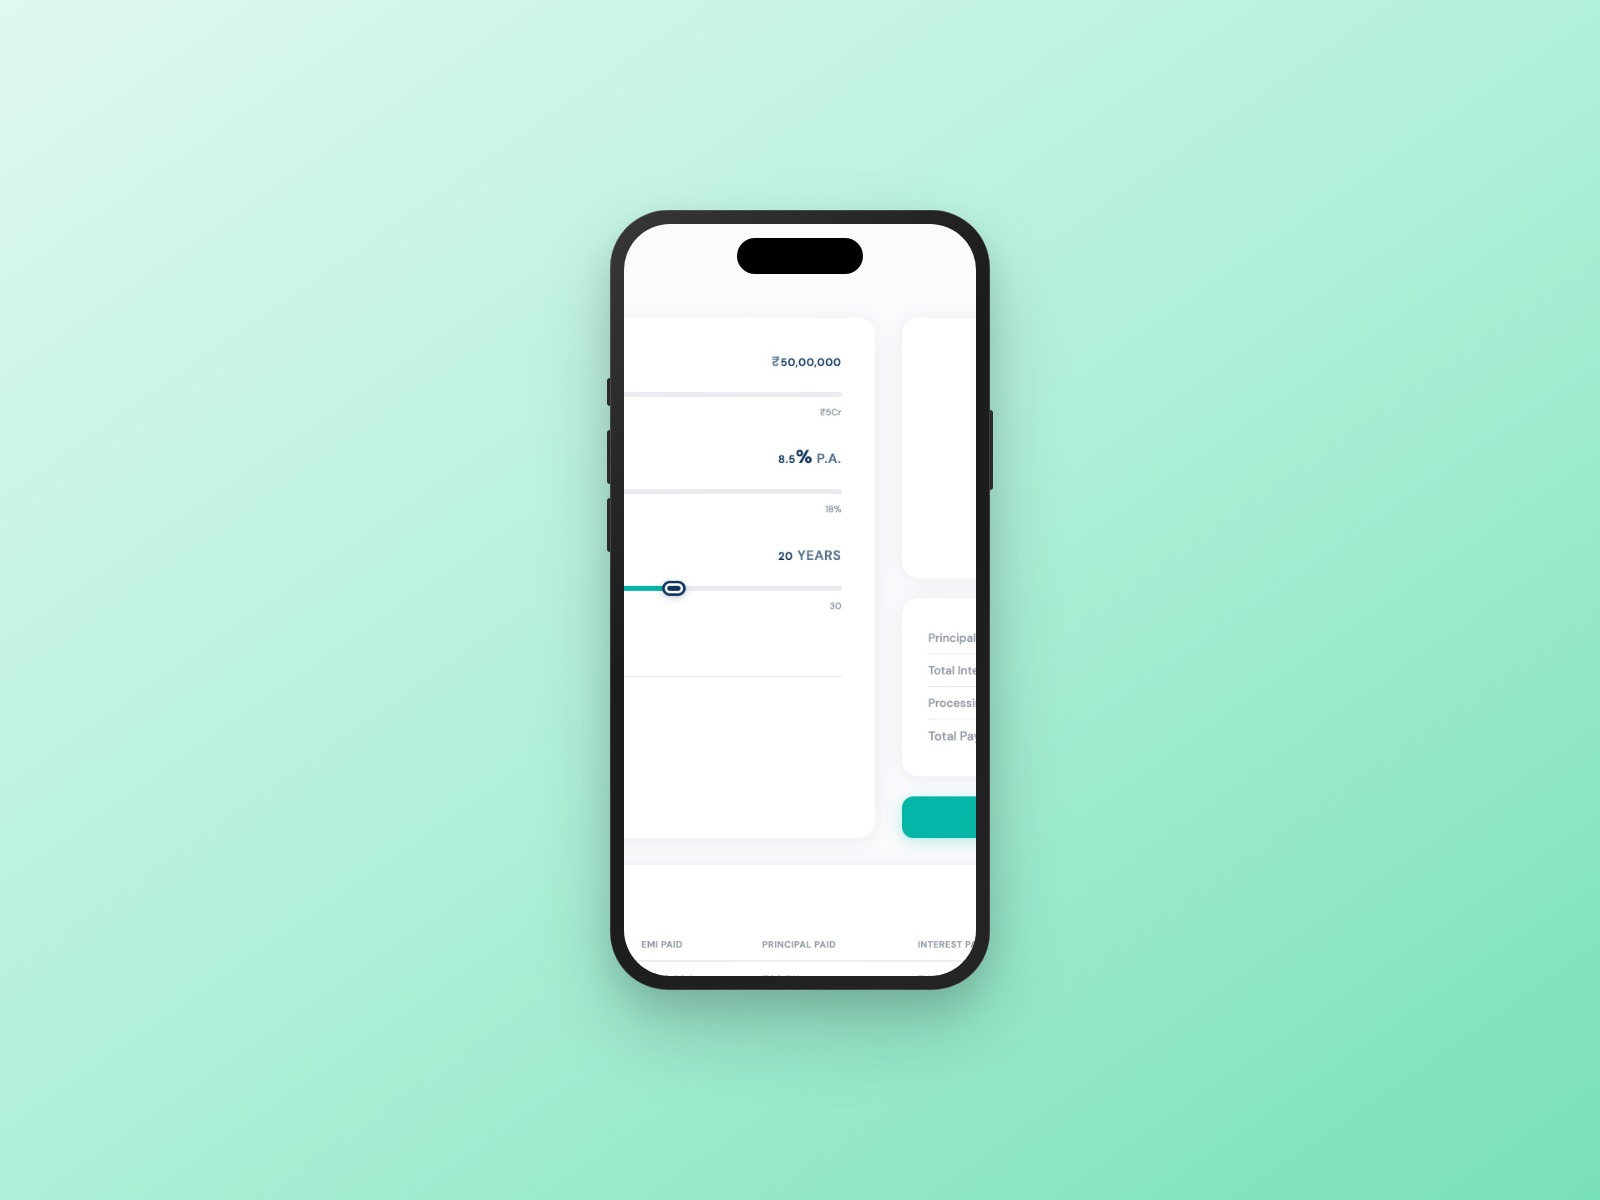
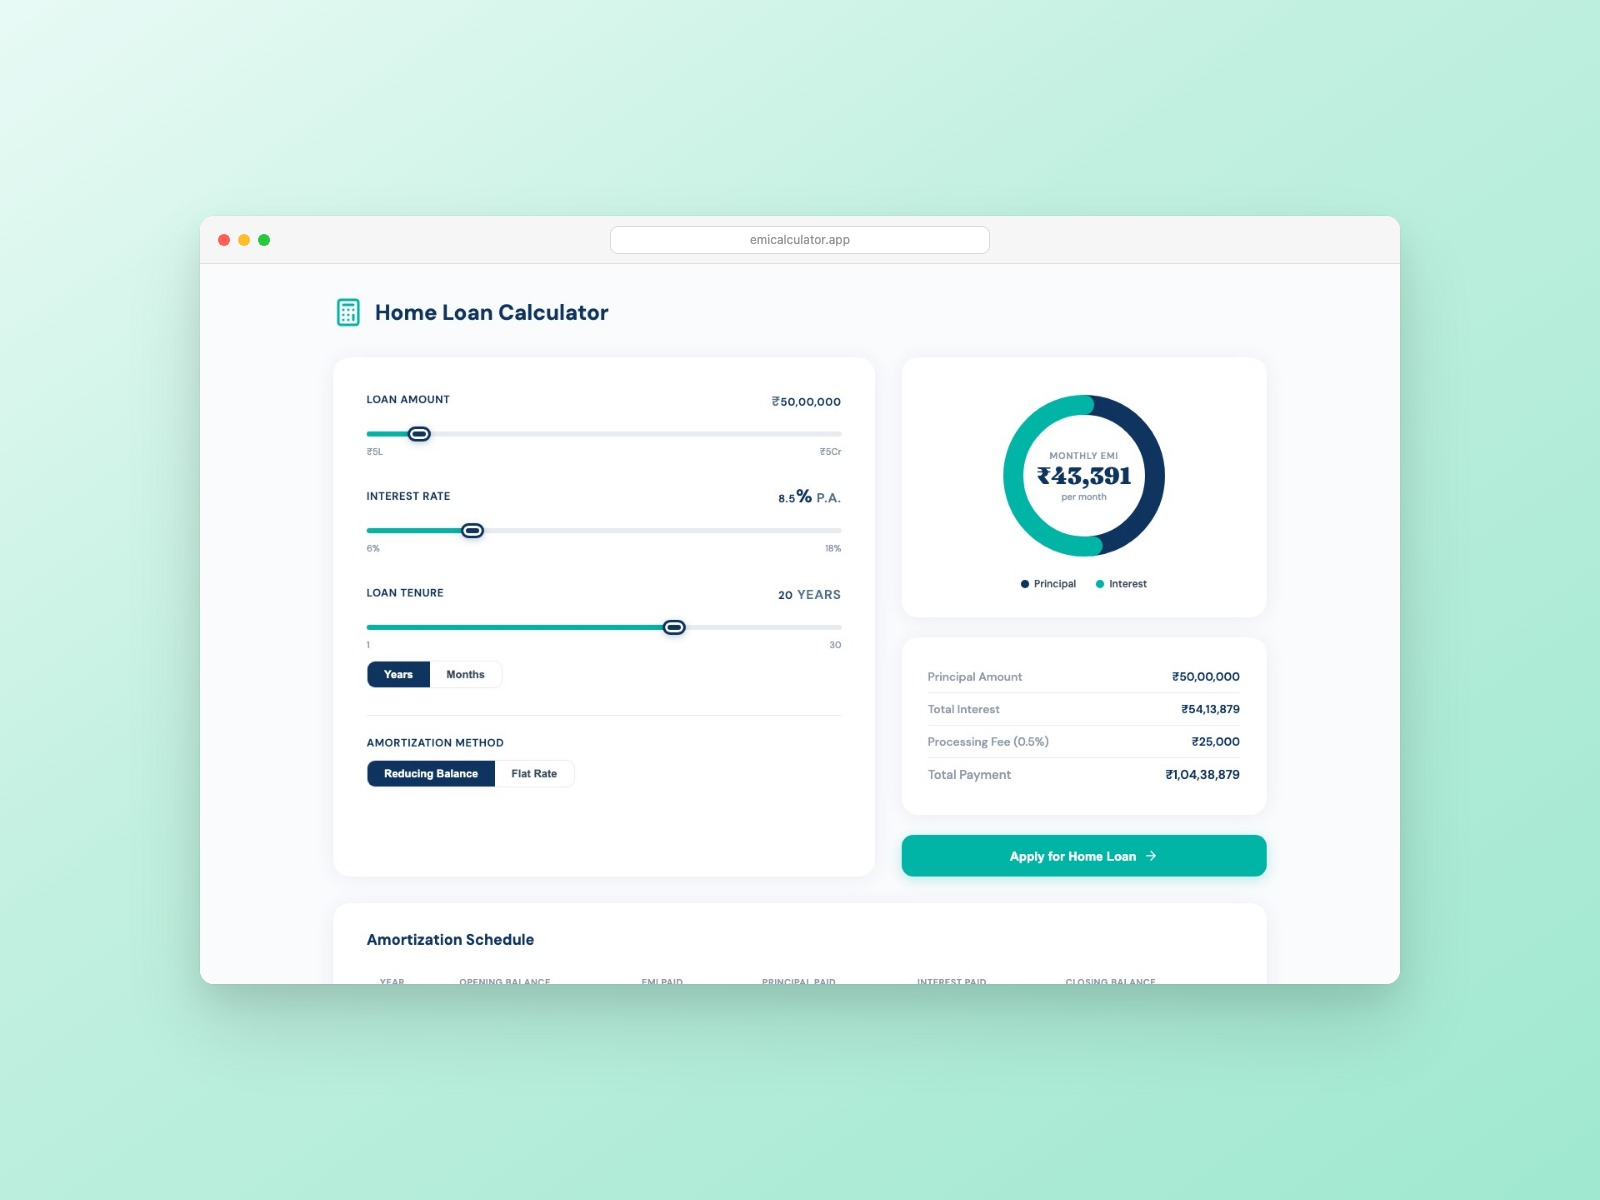
EMI Calculator: switch to web browser showcase
Desktop screenshot in macOS-style browser frame on light teal gradient.

diff --git a/shots/showcase-09-emi-calculator.html b/shots/showcase-09-emi-calculator.html
@@ -3,7 +3,6 @@
 <head>
 <meta charset="UTF-8">
 <meta name="viewport" content="width=1600">
-<title>Showcase</title>
 <style>
 *, *::before, *::after { box-sizing: border-box; margin: 0; padding: 0; }
 
@@ -11,152 +10,91 @@ body {
   width: 1600px;
   height: 1200px;
   overflow: hidden;
-  background: linear-gradient(145deg, #E0F8F0 0%, #B0F0D8 50%, #78E0B8 100%);
+  background: linear-gradient(145deg, #E8FAF5 0%, #C2F0E0 40%, #A0E8D0 100%);
   display: flex;
   align-items: center;
   justify-content: center;
+  padding: 60px;
 }
 
-/* iPhone 15 Pro style mockup */
-.iphone {
-  position: relative;
-  width: 380px;
-  height: 780px;
-  border-radius: 58px;
-  background: #1C1C1E;
-  padding: 14px;
+/* macOS-style browser window */
+.browser {
+  width: 1200px;
+  border-radius: 14px;
+  background: #fff;
   box-shadow:
-    0 40px 80px rgba(0,0,0,0.18), 0 16px 32px rgba(0,0,0,0.10),
-    inset 0 0 0 0.5px rgba(255,255,255,0.3);
-}
-
-/* Titanium edge highlights */
-.iphone::before {
-  content: '';
-  position: absolute;
-  inset: 0;
-  border-radius: 58px;
-  background: linear-gradient(
-    135deg,
-    rgba(255,255,255,0.12) 0%,
-    transparent 40%,
-    transparent 60%,
-    rgba(255,255,255,0.04) 100%
-  );
-  pointer-events: none;
-  z-index: 5;
-}
-
-/* Side button - power */
-.iphone::after {
-  content: '';
-  position: absolute;
-  right: -3px;
-  top: 200px;
-  width: 3px;
-  height: 80px;
-  border-radius: 0 3px 3px 0;
-  background: #2A2A2C;
-}
-
-/* Volume buttons */
-.vol-up, .vol-down, .action-btn {
-  position: absolute;
-  left: -3px;
-  width: 3px;
-  border-radius: 3px 0 0 3px;
-  background: #2A2A2C;
-}
-.action-btn { top: 168px; height: 28px; }
-.vol-up { top: 220px; height: 54px; }
-.vol-down { top: 288px; height: 54px; }
-
-/* Screen */
-.screen {
-  width: 100%;
-  height: 100%;
-  border-radius: 46px;
+    0 40px 80px rgba(0,0,0,0.12),
+    0 16px 32px rgba(0,0,0,0.08),
+    0 0 0 0.5px rgba(0,0,0,0.06);
   overflow: hidden;
-  position: relative;
-  background: #000;
 }
 
-.screen img {
+/* Title bar */
+.chrome {
+  height: 48px;
+  background: #F6F6F6;
+  border-bottom: 0.5px solid #E0E0E0;
+  display: flex;
+  align-items: center;
+  padding: 0 18px;
+  gap: 8px;
+  position: relative;
+}
+
+.dot { width: 12px; height: 12px; border-radius: 50%; }
+.dot.r { background: #FF5F57; }
+.dot.y { background: #FEBC2E; }
+.dot.g { background: #28C840; }
+
+.urlbar {
+  position: absolute;
+  left: 50%;
+  transform: translateX(-50%);
+  height: 28px;
+  width: 380px;
+  border-radius: 8px;
+  background: #fff;
+  border: 0.5px solid #D8D8D8;
+  display: flex;
+  align-items: center;
+  justify-content: center;
+  padding: 0 14px;
+}
+
+.url {
+  font-family: -apple-system, BlinkMacSystemFont, sans-serif;
+  font-size: 12px;
+  color: #999;
+}
+
+/* Viewport */
+.viewport {
+  overflow: hidden;
+  height: 720px;
+}
+
+.viewport img {
   width: 100%;
   height: 100%;
   object-fit: cover;
   object-position: top;
   display: block;
 }
-
-/* Dynamic Island */
-.dynamic-island {
-  position: absolute;
-  top: 14px;
-  left: 50%;
-  transform: translateX(-50%);
-  width: 126px;
-  height: 36px;
-  background: #000;
-  border-radius: 24px;
-  z-index: 10;
-}
-
-/* Status bar icons (subtle) */
-.status-bar {
-  position: absolute;
-  top: 16px;
-  left: 34px;
-  right: 34px;
-  display: flex;
-  justify-content: space-between;
-  align-items: center;
-  z-index: 8;
-  pointer-events: none;
-}
-
-/* Home indicator */
-.home-indicator {
-  position: absolute;
-  bottom: 10px;
-  left: 50%;
-  transform: translateX(-50%);
-  width: 140px;
-  height: 5px;
-  border-radius: 3px;
-  background: rgba(255,255,255,0.25);
-  z-index: 10;
-}
-
-/* Subtle reflection on screen */
-.screen::after {
-  content: '';
-  position: absolute;
-  inset: 0;
-  border-radius: 46px;
-  background: linear-gradient(
-    165deg,
-    rgba(255,255,255,0.06) 0%,
-    transparent 30%
-  );
-  pointer-events: none;
-  z-index: 6;
-}
-
 </style>
 </head>
 <body>
-
-<div class="iphone">
-  <div class="action-btn"></div>
-  <div class="vol-up"></div>
-  <div class="vol-down"></div>
-  <div class="screen">
-    <div class="dynamic-island"></div>
-    <div class="home-indicator"></div>
-    <img src="exports/images/shot-09-emi-calculator.jpg" alt="App Screenshot" />
+<div class="browser">
+  <div class="chrome">
+    <div class="dot r"></div>
+    <div class="dot y"></div>
+    <div class="dot g"></div>
+    <div class="urlbar">
+      <span class="url">emicalculator.app</span>
+    </div>
+  </div>
+  <div class="viewport">
+    <img src="exports/images/shot-09-emi-calculator-web.jpg" alt="EMI Calculator" />
   </div>
 </div>
-
 </body>
 </html>
